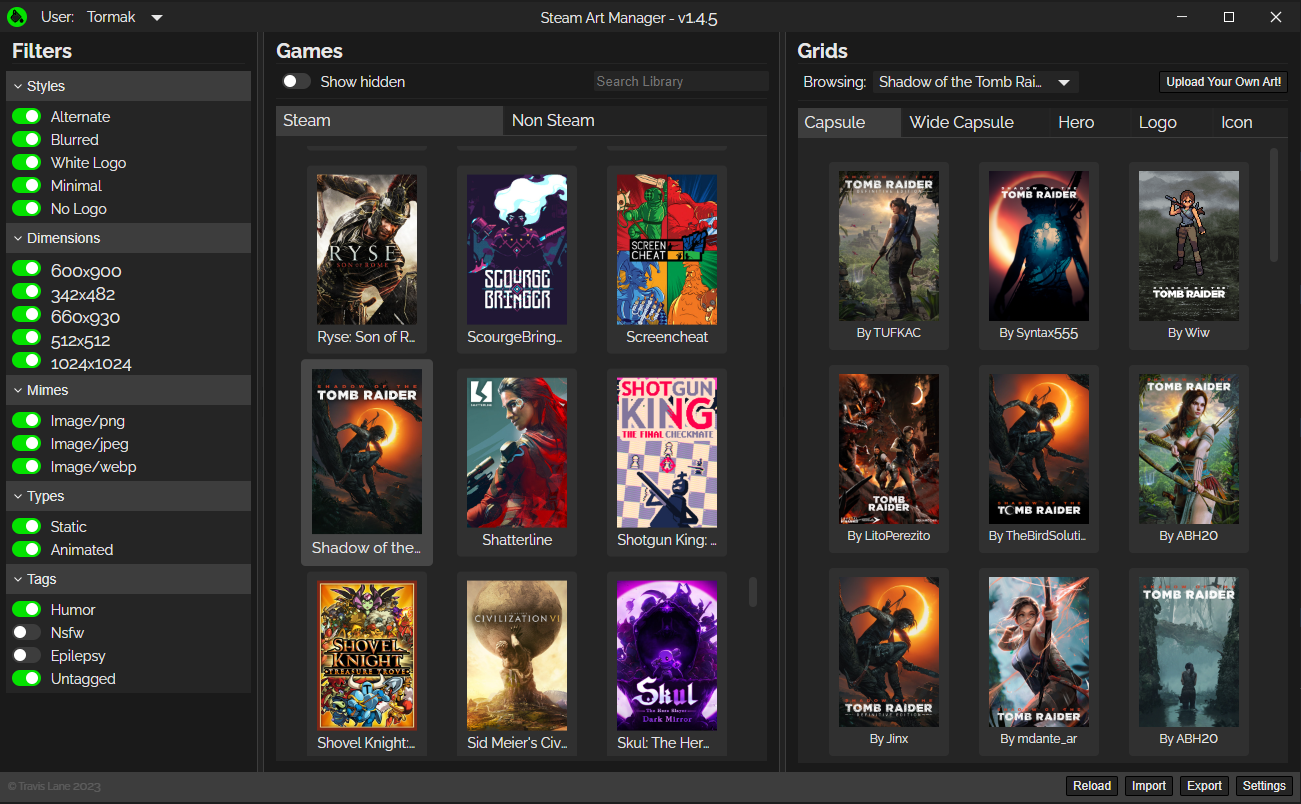
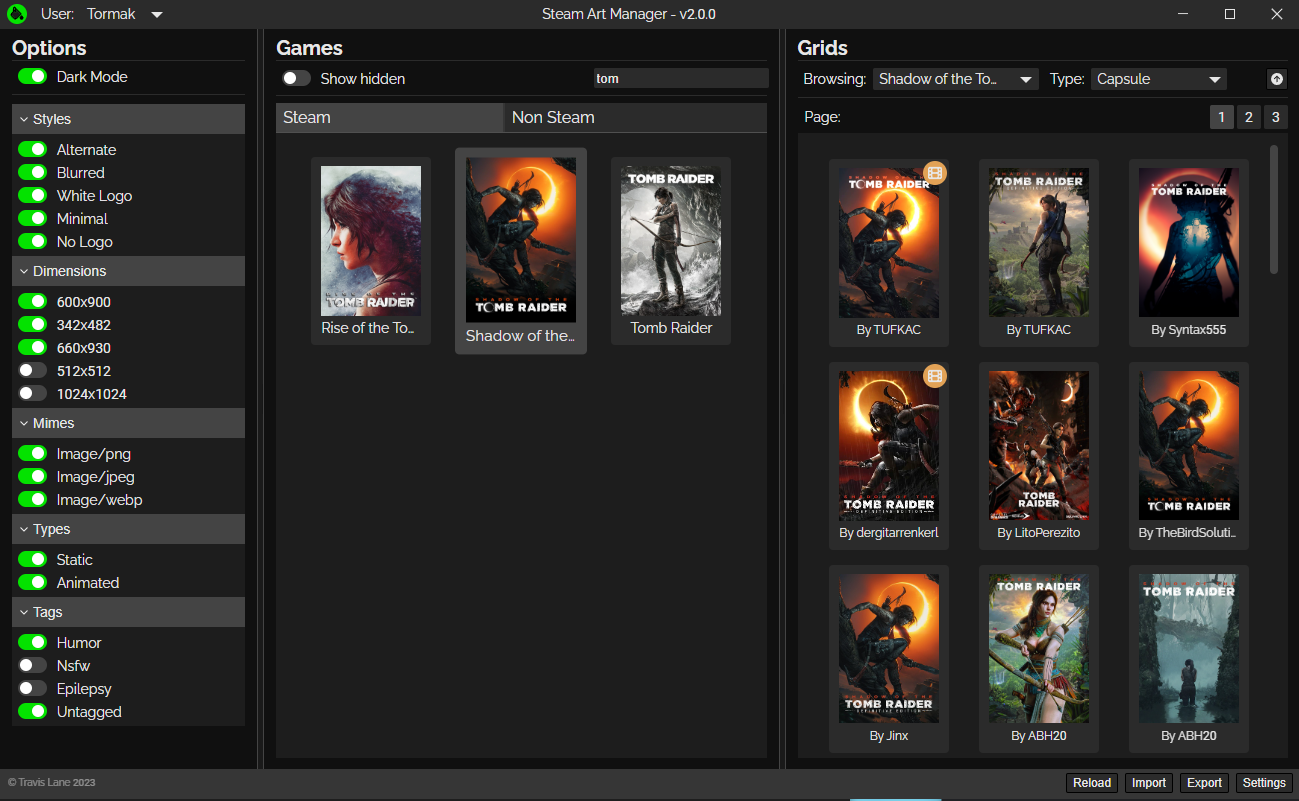
chore: set up grids pane for dynamic page count

diff --git a/src/components/core/grids/Grids.svelte b/src/components/core/grids/Grids.svelte
@@ -8,8 +8,6 @@
   import type { SGDBImage } from "../../../lib/models/SGDB";
   import { dbFilters, gridType, GridTypes, isOnline, needsSGDBAPIKey, selectedGameAppId, selectedGameName, steamGridDBKey, type DBFilters, currentPlatform, selectedSteamGridGameId, steamGridSearchCache, Platforms, selectedResultPage } from "../../../Stores";
   import LoadingSpinner from "../../info/LoadingSpinner.svelte";
-  import Button from "../../interactables/Button.svelte";
-  import ListTabs from "../../layout/tabs/ListTabs.svelte";
   import HorizontalSpacer from "../../spacers/HorizontalSpacer.svelte";
   import VerticalSpacer from "../../spacers/VerticalSpacer.svelte";
   import SectionTitle from "../SectionTitle.svelte";
@@ -17,7 +15,7 @@
   import DropDown from "../../interactables/DropDown.svelte";
   import { heights, widths } from "../imageDimensions";
   import Pages from "../../layout/pagination/Pages.svelte";
-    import IconButton from "../../interactables/IconButton.svelte";
+  import IconButton from "../../interactables/IconButton.svelte";
 
   let steamGridSearchCacheUnsub: Unsubscriber;
   let selectedPlatformUnsub: Unsubscriber;
@@ -65,6 +63,7 @@
   let availableSteamGridGames = [{ label: "None", data: "None"}];
   let steamGridTypes = Object.values(GridTypes).map((gridType) => { return { label: gridType, data: gridType }});
   let grids: SGDBImage[] = [];
+  let numPages = 3;
 
   /**
    * Prompts the user to select their custom game art.
@@ -96,7 +95,11 @@
   }
 
   async function onDropdownChange(id: string) {
-    if ($isOnline && $steamGridDBKey != "" && $selectedGameAppId != null && oldSelectedGameId != id) grids = filterGrids(await AppController.getSteamGridArt($selectedGameAppId, $selectedResultPage, id), $gridType, $dbFilters);
+    if ($isOnline && $steamGridDBKey != "" && $selectedGameAppId != null && oldSelectedGameId != id) {
+      grids = filterGrids(await AppController.getSteamGridArt($selectedGameAppId, $selectedResultPage, id), $gridType, $dbFilters);
+      numPages = $steamGridSearchCache[$selectedGameAppId]?.find((game) => game.id.toString() == id)?.numResultPages ?? 3;
+    }
+    
     oldSelectedGameId = id;
   }
 
@@ -110,7 +113,10 @@
             "data": value.id.toString()
           }
         });
+        
+        numPages = searchCache[$selectedGameAppId]?.find((game) => game.id.toString() == $selectedSteamGridGameId)?.numResultPages ?? 3;
       }
+
       isLoading = false;
     });
 
@@ -134,6 +140,8 @@
             "data": value.id.toString()
           }
         });
+        
+        numPages = $steamGridSearchCache[id]?.find((game) => game.id.toString() == $selectedSteamGridGameId)?.numResultPages ?? 3;
       }
 
       isLoading = false;
@@ -205,7 +213,7 @@
     {#if $isOnline}
       {#if !$needsSGDBAPIKey}
         {#if $selectedGameAppId != null}
-          <Pages numPages={3} height="calc(100% - 47px)" bind:selected={$selectedResultPage}>
+          <Pages numPages={numPages} height="calc(100% - 47px)" bind:selected={$selectedResultPage}>
             <div class="grids-cont">
               <VerticalSpacer />
               <VerticalSpacer />

diff --git a/src/lib/controllers/CacheController.ts b/src/lib/controllers/CacheController.ts
@@ -239,6 +239,10 @@ export class CacheController {
 
       if (!results) {
         results = await this.client.searchGame(gameName);
+        results = results.map((game) => {
+          game.numResultPages = 3;
+          return game;
+        });
         searchCache[appId] = results;
       }
 
@@ -269,6 +273,10 @@ export class CacheController {
 
       if (!results) {
         results = await this.client.searchGame(gameName);
+        results = results.map((game) => {
+          game.numResultPages = 3;
+          return game;
+        });
         searchCache[appId] = results;
       }
 

diff --git a/src/lib/models/SGDB.ts b/src/lib/models/SGDB.ts
@@ -21,6 +21,7 @@ export interface SGDBGame {
   name: string;
   types: string[];
   verified: boolean;
+  numResultPages: number;
 }
 
 export interface SGDBAuthor {
